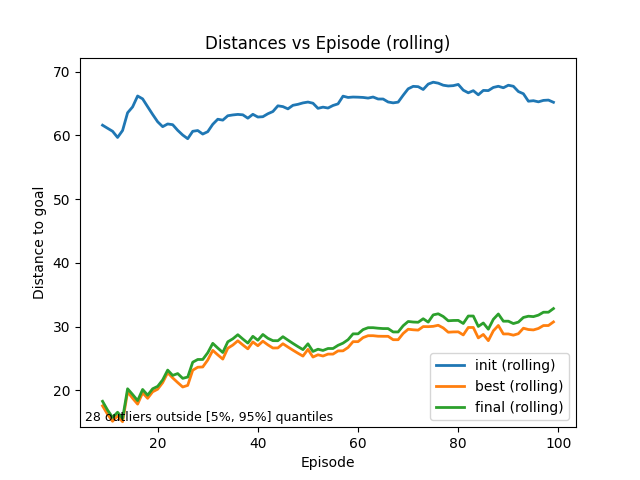
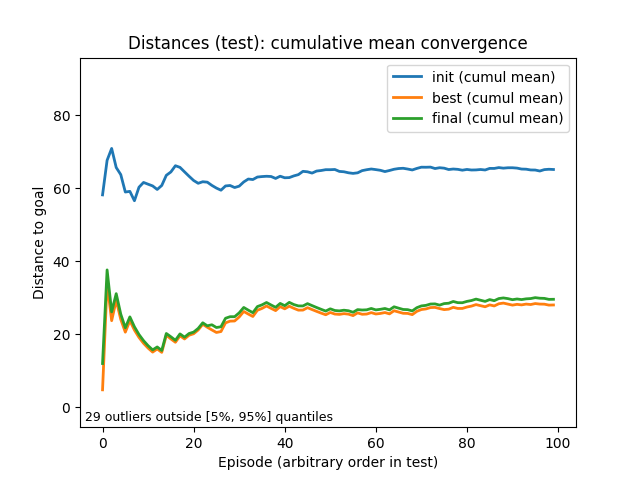
fix: Fixes to the plots

diff --git a/plots.py b/plots.py
@@ -1,7 +1,6 @@
 # A file to help plot different relationships in the results of the models' testing.
 # Was generated with CHATGPT.
 
-
 import numpy as np
 import pandas as pd
 import matplotlib.pyplot as plt
@@ -11,7 +10,6 @@ CSV_PATH = sys.argv[1]
 if CSV_PATH is None:
     raise ValueError("File path needed !")
 
-ROLL = 50
 EPS = 1e-8
 
 # ---------- load ----------
@@ -31,18 +29,16 @@ for c in ["success", "terminated", "truncated"]:
     if df[c].dtype == object:
         df[c] = df[c].astype(str).str.lower().isin(["true", "1", "yes"])
 
-df["progress"] = (df["init_dist_goal"] - df["final_dist_goal"]) / np.maximum(df["init_dist_goal"], EPS)
+# Derived metrics
 df["regret"] = df["final_dist_goal"] - df["best_dist_goal"]
 
-def rolling_mean(s, w=ROLL):
-    return s.rolling(w, min_periods=max(5, w//5)).mean()
+def running_mean(s: pd.Series) -> pd.Series:
+    """Cumulative mean: meaningful for i.i.d. test episodes (convergence of the mean)."""
+    s = s.astype(float)
+    return s.expanding(min_periods=1).mean()
 
 # ---------- robust plot helpers (for outliers) ----------
 def robust_ylim(y, q_low=0.05, q_high=0.95, pad=0.10):
-    """
-    y-limits based on quantiles so extreme outliers don't dictate the scale.
-    pad is relative padding added on both sides.
-    """
     y = pd.Series(y).dropna()
     if len(y) == 0:
         return None
@@ -50,27 +46,20 @@ def robust_ylim(y, q_low=0.05, q_high=0.95, pad=0.10):
     if not np.isfinite(lo) or not np.isfinite(hi):
         return None
     if lo == hi:
-        # fallback if constant series
         lo -= 1.0
         hi += 1.0
     r = hi - lo
     return lo - pad * r, hi + pad * r
 
 def annotate_outliers(ax, x, y, q_low=0.05, q_high=0.95, max_marks=6):
-    """
-    Adds a note with how many points are outside quantile range.
-    Marks a few extreme outliers ONLY if x and y have same length.
-    """
     y_s = pd.Series(y).dropna()
     if len(y_s) == 0:
         return
 
     lo, hi = y_s.quantile([q_low, q_high]).to_numpy()
 
-    # If x is provided, ensure same length for marking
     can_mark = (x is not None) and (len(x) == len(y))
 
-    # Build mask on the original (non-dropna) shape for consistency
     y_full = pd.Series(y)
     mask = (y_full < lo) | (y_full > hi)
     n_out = int(mask.sum())
@@ -88,10 +77,9 @@ def annotate_outliers(ax, x, y, q_low=0.05, q_high=0.95, max_marks=6):
     if not can_mark:
         return
 
-    # mark a few most extreme points (by distance to nearest bound)
     yv = y_full.to_numpy()
     d = np.where(yv < lo, lo - yv, yv - hi)
-    d = np.where(mask.to_numpy(), d, -np.inf)  # ignore non-outliers
+    d = np.where(mask.to_numpy(), d, -np.inf)
     idx = np.argsort(d)[::-1][:min(max_marks, n_out)]
 
     ax.scatter(np.asarray(x)[idx], np.asarray(y)[idx], s=20, zorder=3)
@@ -103,103 +91,110 @@ def apply_robust_view(ax, y, q_low=0.05, q_high=0.95, pad=0.10, show_outlier_not
     if show_outlier_note:
         annotate_outliers(ax, x, y, q_low=q_low, q_high=q_high)
 
-
-# You can tweak these once and all "raw+rolling" plots benefit.
 QLOW, QHIGH = 0.05, 0.95
 PAD = 0.10
 
-# ---------- 1) Return ----------
+# ---------- helpers for test summaries ----------
+def summary_text(s: pd.Series, name: str) -> str:
+    s = s.dropna().astype(float)
+    if len(s) == 0:
+        return f"{name}: empty"
+    q05, q50, q95 = s.quantile([0.05, 0.50, 0.95]).to_numpy()
+    mu = s.mean()
+    return f"{name}: mean={mu:.3f} | median={q50:.3f} | q05={q05:.3f} | q95={q95:.3f} | n={len(s)}"
+
+# ---------- 1) Return (raw + running mean) ----------
 fig, ax = plt.subplots()
-ax.plot(df["episode"], df["return"], alpha=0.35)
-ax.plot(df["episode"], rolling_mean(df["return"]), linewidth=2)
-ax.set_xlabel("Episode")
+ax.plot(df["episode"], df["return"], alpha=0.35, label="raw")
+ax.plot(df["episode"], running_mean(df["return"]), linewidth=2, label="running mean")
+ax.set_xlabel("Episode (arbitrary order in test)")
 ax.set_ylabel("Return")
-ax.set_title("Return vs Episode (raw + rolling mean)")
+ax.set_title("Return (test): raw + running mean (convergence)")
+ax.legend()
 apply_robust_view(ax, df["return"], q_low=QLOW, q_high=QHIGH, pad=PAD, x=df["episode"])
+ax.text(0.01, 0.98, summary_text(df["return"], "return"), transform=ax.transAxes,
+        fontsize=9, verticalalignment="top")
 plt.show()
 
-# ---------- 2) Success rate ----------
+# ---------- 2) Success rate (cumulative) ----------
 fig, ax = plt.subplots()
-ax.plot(df["episode"], rolling_mean(df["success"].astype(float)), linewidth=2)
+succ = df["success"].astype(float)
+ax.plot(df["episode"], running_mean(succ), linewidth=2)
 ax.set_ylim(-0.05, 1.05)
-ax.set_xlabel("Episode")
-ax.set_ylabel("Success rate (rolling)")
-ax.set_title("Success Rate vs Episode")
+ax.set_xlabel("Episode (arbitrary order in test)")
+ax.set_ylabel("Success rate (cumulative)")
+ax.set_title("Success rate (test): cumulative mean")
+ax.text(0.01, 0.98, f"success rate = {succ.mean():.3f} (n={len(succ)})",
+        transform=ax.transAxes, fontsize=9, verticalalignment="top")
 plt.show()
 
-# ---------- 3) Episode length ----------
+# ---------- 3) Episode length (raw + running mean) ----------
 fig, ax = plt.subplots()
-ax.plot(df["episode"], df["length"], alpha=0.35)
-ax.plot(df["episode"], rolling_mean(df["length"]), linewidth=2)
-ax.set_xlabel("Episode")
+ax.plot(df["episode"], df["length"], alpha=0.35, label="raw")
+ax.plot(df["episode"], running_mean(df["length"]), linewidth=2, label="running mean")
+ax.set_xlabel("Episode (arbitrary order in test)")
 ax.set_ylabel("Length")
-ax.set_title("Episode Length vs Episode")
+ax.set_title("Episode length (test): raw + running mean")
+ax.legend()
 apply_robust_view(ax, df["length"], q_low=QLOW, q_high=QHIGH, pad=PAD, x=df["episode"])
+ax.text(0.01, 0.98, summary_text(df["length"], "length"), transform=ax.transAxes,
+        fontsize=9, verticalalignment="top")
 plt.show()
 
-# ---------- 4) Terminated vs Truncated rates ----------
+# ---------- 4) Terminated vs Truncated rates (global + cumulative) ----------
 fig, ax = plt.subplots()
-ax.plot(df["episode"], rolling_mean(df["terminated"].astype(float)), linewidth=2, label="terminated (rolling)")
-ax.plot(df["episode"], rolling_mean(df["truncated"].astype(float)), linewidth=2, label="truncated (rolling)")
+term = df["terminated"].astype(float)
+trun = df["truncated"].astype(float)
+ax.plot(df["episode"], running_mean(term), linewidth=2, label="terminated (cumulative)")
+ax.plot(df["episode"], running_mean(trun), linewidth=2, label="truncated (cumulative)")
 ax.set_ylim(-0.05, 1.05)
-ax.set_xlabel("Episode")
-ax.set_ylabel("Rate")
-ax.set_title("Terminated vs Truncated Rate")
+ax.set_xlabel("Episode (arbitrary order in test)")
+ax.set_ylabel("Rate (cumulative)")
+ax.set_title("Terminated vs Truncated (test): cumulative means")
 ax.legend()
+ax.text(
+    0.01, 0.98,
+    f"terminated={term.mean():.3f} | truncated={trun.mean():.3f} | n={len(df)}",
+    transform=ax.transAxes, fontsize=9, verticalalignment="top"
+)
 plt.show()
 
-# ---------- 5) Distances ----------
+# ---------- 5) Distances (distributions + cumulative mean) ----------
+# In test, plotting distances vs episode is not a temporal story.
+# We still can show cumulative mean convergence + robust view.
 fig, ax = plt.subplots()
-ax.plot(df["episode"], rolling_mean(df["init_dist_goal"]), linewidth=2, label="init (rolling)")
-ax.plot(df["episode"], rolling_mean(df["best_dist_goal"]), linewidth=2, label="best (rolling)")
-ax.plot(df["episode"], rolling_mean(df["final_dist_goal"]), linewidth=2, label="final (rolling)")
-ax.set_xlabel("Episode")
+ax.plot(df["episode"], running_mean(df["init_dist_goal"]), linewidth=2, label="init (cumul mean)")
+ax.plot(df["episode"], running_mean(df["best_dist_goal"]), linewidth=2, label="best (cumul mean)")
+ax.plot(df["episode"], running_mean(df["final_dist_goal"]), linewidth=2, label="final (cumul mean)")
+ax.set_xlabel("Episode (arbitrary order in test)")
 ax.set_ylabel("Distance to goal")
-ax.set_title("Distances vs Episode (rolling)")
+ax.set_title("Distances (test): cumulative mean convergence")
 ax.legend()
-# robust y-limits from all distance series together, but no outlier markers
+
+# robust y-limits based on all three distance series
 all_d = pd.concat(
-    [
-        rolling_mean(df["init_dist_goal"]),
-        rolling_mean(df["best_dist_goal"]),
-        rolling_mean(df["final_dist_goal"]),
-    ],
+    [df["init_dist_goal"], df["best_dist_goal"], df["final_dist_goal"]],
     ignore_index=True
 )
 apply_robust_view(ax, all_d, q_low=QLOW, q_high=QHIGH, pad=PAD, x=None)
 plt.show()
 
-# ---------- 6) Progress ----------
+# ---------- 6) Regret (raw + running mean) ----------
 fig, ax = plt.subplots()
-ax.plot(df["episode"], df["progress"], alpha=0.35)
-ax.plot(df["episode"], rolling_mean(df["progress"]), linewidth=2)
+ax.plot(df["episode"], df["regret"], alpha=0.35, label="raw")
+ax.plot(df["episode"], running_mean(df["regret"]), linewidth=2, label="running mean")
 ax.axhline(0.0, linewidth=1)
-ax.set_xlabel("Episode")
-ax.set_ylabel("Progress (normalized)")
-ax.set_title("Progress vs Episode")
-apply_robust_view(ax, df["progress"], q_low=QLOW, q_high=QHIGH, pad=PAD, x=df["episode"])
-plt.show()
-
-# ---------- 7) Regret ----------
-fig, ax = plt.subplots()
-ax.plot(df["episode"], df["regret"], alpha=0.35)
-ax.plot(df["episode"], rolling_mean(df["regret"]), linewidth=2)
-ax.axhline(0.0, linewidth=1)
-ax.set_xlabel("Episode")
+ax.set_xlabel("Episode (arbitrary order in test)")
 ax.set_ylabel("Regret = final - best")
-ax.set_title("Regret vs Episode (how often it loses progress)")
+ax.set_title("Regret (test): raw + running mean")
+ax.legend()
 apply_robust_view(ax, df["regret"], q_low=QLOW, q_high=QHIGH, pad=PAD, x=df["episode"])
+ax.text(0.01, 0.98, summary_text(df["regret"], "regret"), transform=ax.transAxes,
+        fontsize=9, verticalalignment="top")
 plt.show()
 
-# ---------- 8) Return vs Progress scatter ----------
-plt.figure()
-plt.scatter(df["progress"], df["return"], alpha=0.35, s=12)
-plt.xlabel("Progress")
-plt.ylabel("Return")
-plt.title("Return vs Progress (reward alignment check)")
-plt.show()
 
-# ---------- 9) Success vs init distance (binned) ----------
+# ---------- 7) Success vs init distance (binned) ----------
 bins = pd.qcut(df["init_dist_goal"], q=6, duplicates="drop")
 grp = df.groupby(bins)["success"].mean()
 
